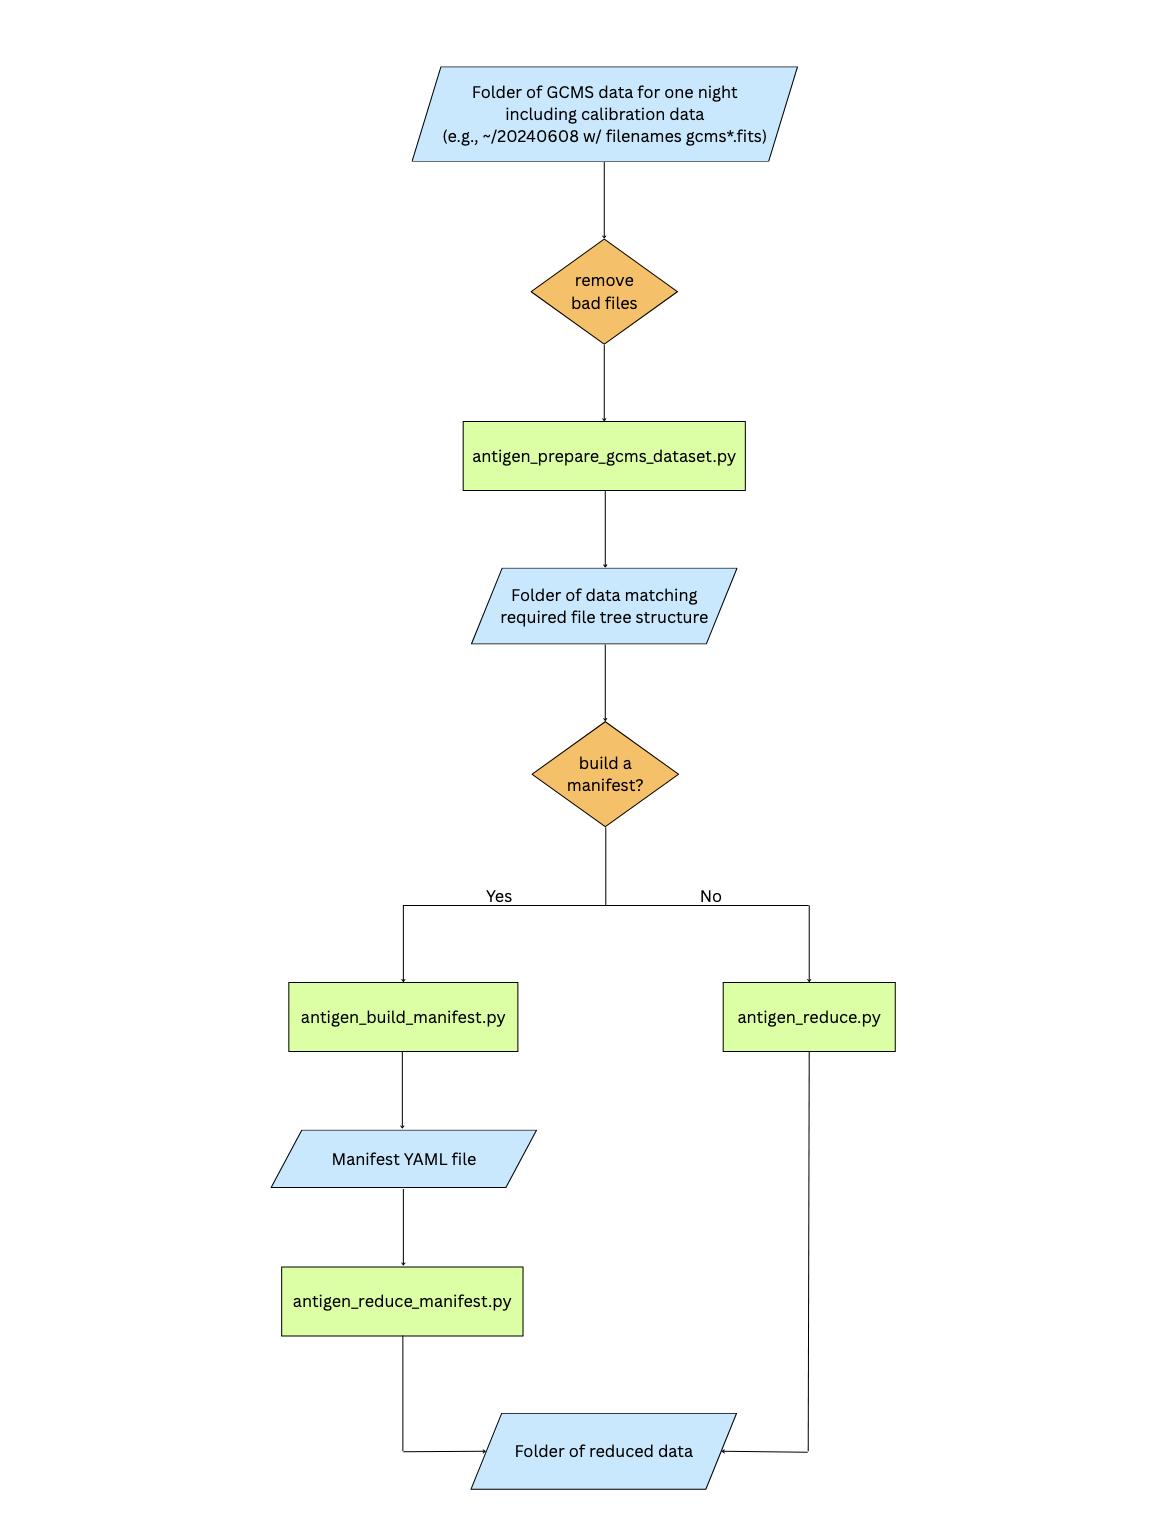
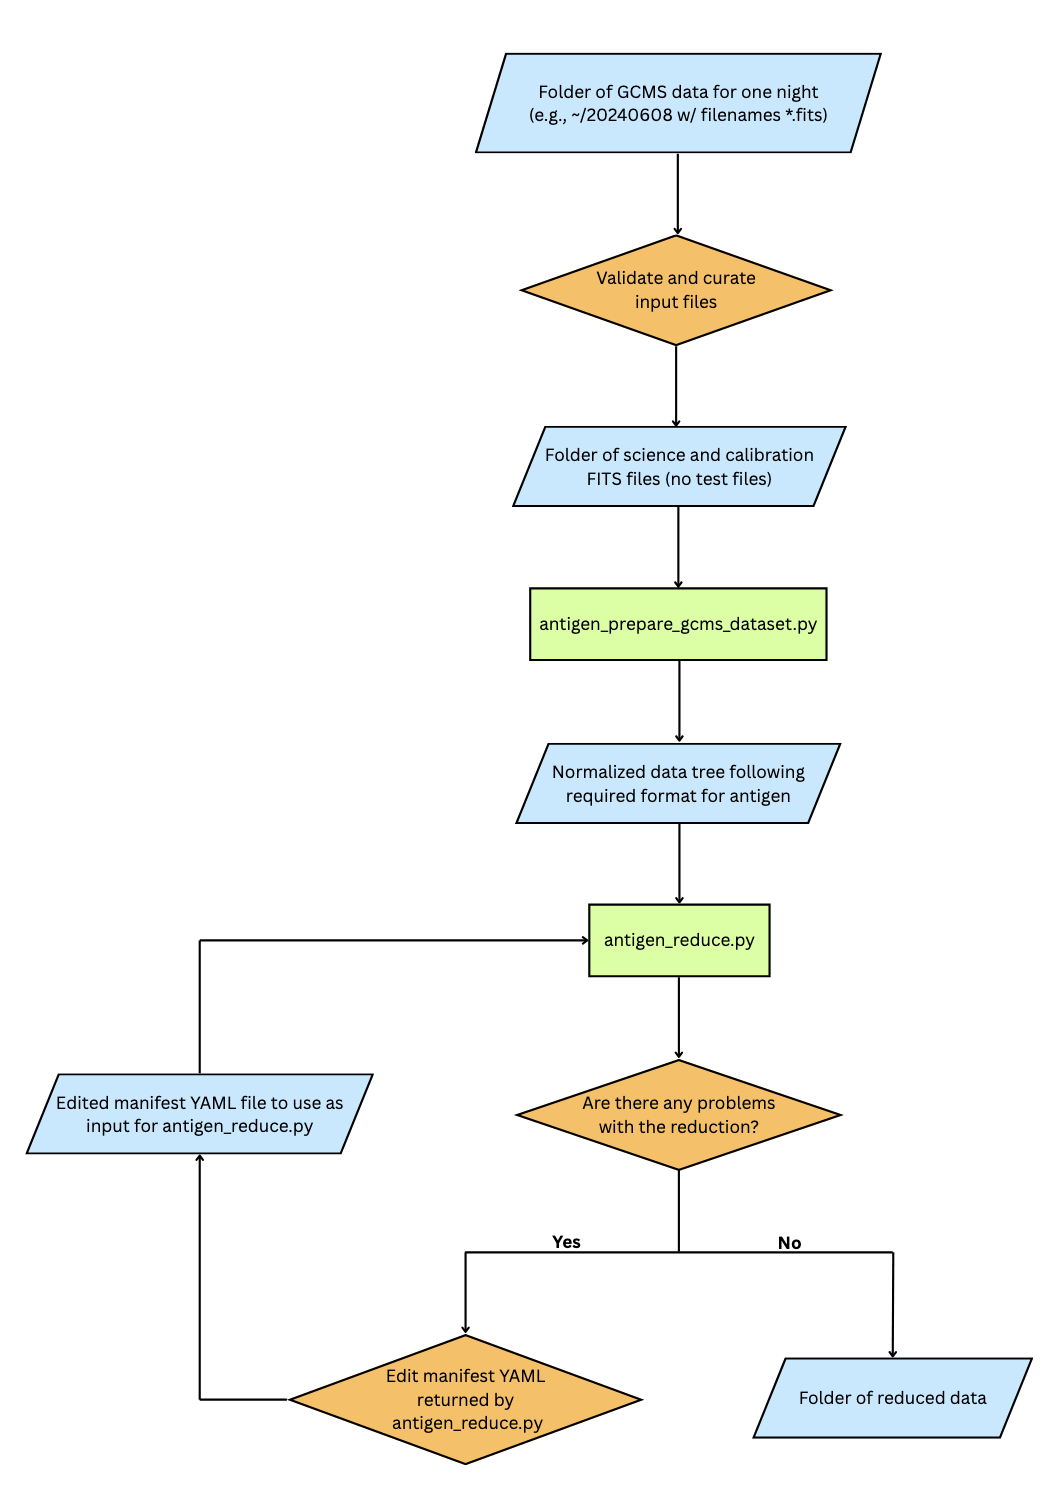
[docs] reorganized flowcharts for virus2 and gcms reductions

diff --git a/docs/usage.md b/docs/usage.md
@@ -4,16 +4,16 @@
 
 GCMS data for a single night of observations is output in a folder containing all files, including calibrations, standard stars, and science frames. In order to reduce the data for a single night:
 
-- Copy the data to a folder structure to help the antigen reduction using <tt> antigen\_prepare\_gcms\_dataset.py</tt>. An example call might be:
+- Copy the data to a folder structure to help the antigen reduction using <tt>antigen\_prepare\_gcms\_dataset.py</tt>. An example call might be:
    ```bash
    $ conda activate env_antigen
    $ antigen_prepare_gcms_dataset.py -i ~/Downloads/VIRUS-P_Data/20240609 -c 20240609 -m GCMS -l VP1R -o ~/data -v
    ```
-- Run the basic reduction using <tt> antigen\_reduce.py</tt>. An example call might be:
+- Run the basic reduction using <tt>antigen\_reduce.py</tt>. An example call might be:
    ```bash
    $ antigen_reduce.py -i ~/data -c 20240609 -m GCMS -v
    ```
-- The arguments for <tt> antigen_reduce.py</tt> are:
+- The arguments for <tt>antigen_reduce.py</tt> are:
   ```bash
   usage: antigen_reduce.py [-h] [-i IN_FOLDER] [-o OUT_FOLDER] [-c OBS_DATE] [-n OBS_NAME] [-r] [-w TIME_RADIUS] [-v] [-b BIAS_LABEL] [-a ARC_LABEL] [-d DARK_LABEL] [-f FLAT_LABEL] [-t TWILIGHT_FLAT_LABEL]
                          [-m INSTRUMENT]
@@ -48,13 +48,14 @@ GCMS data for a single night of observations is output in a folder containing al
 
 You can also run antigen on GCMS data by building a manifest file from your restructured data folder through these steps:
 
-- Build the manifest using <tt> antigen\_build\_manifest.py</tt>. An example call might be:
+- Build the manifest using <tt>antigen\_build\_manifest.py</tt>. An example call might be:
    ```bash
    $ antigen_build_manifest.py -i ~/data -o ~/data/manifests -c 20240609
    ```
-- Run a basic reduction using <tt> antigen\_reduce\_manifest.py</tt>. An example call might be:
+- Run a basic reduction using <tt>antigen\_reduce\_manifest.py</tt>. An example call might be:
    ```bash
    $ antigen_reduce_manifest.py -f manifest.yml -o ~/data/reduced -v
    ```
+Please consult <tt>docs/gcms\_reduction\_flowchart.jpg</tt> for a visual representation of the steps required to reduce GCMS data.
 
 ## VIRUS2
